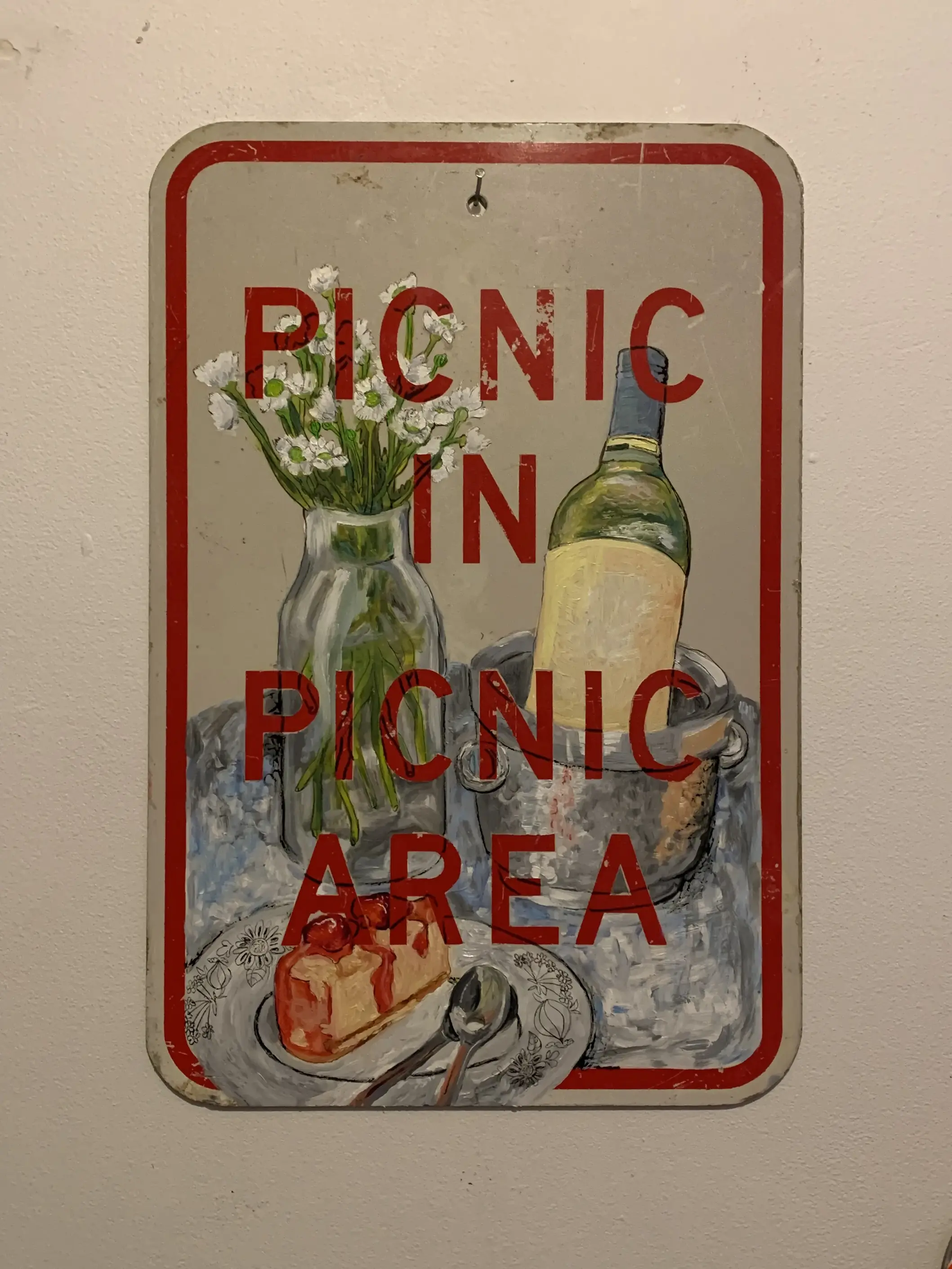
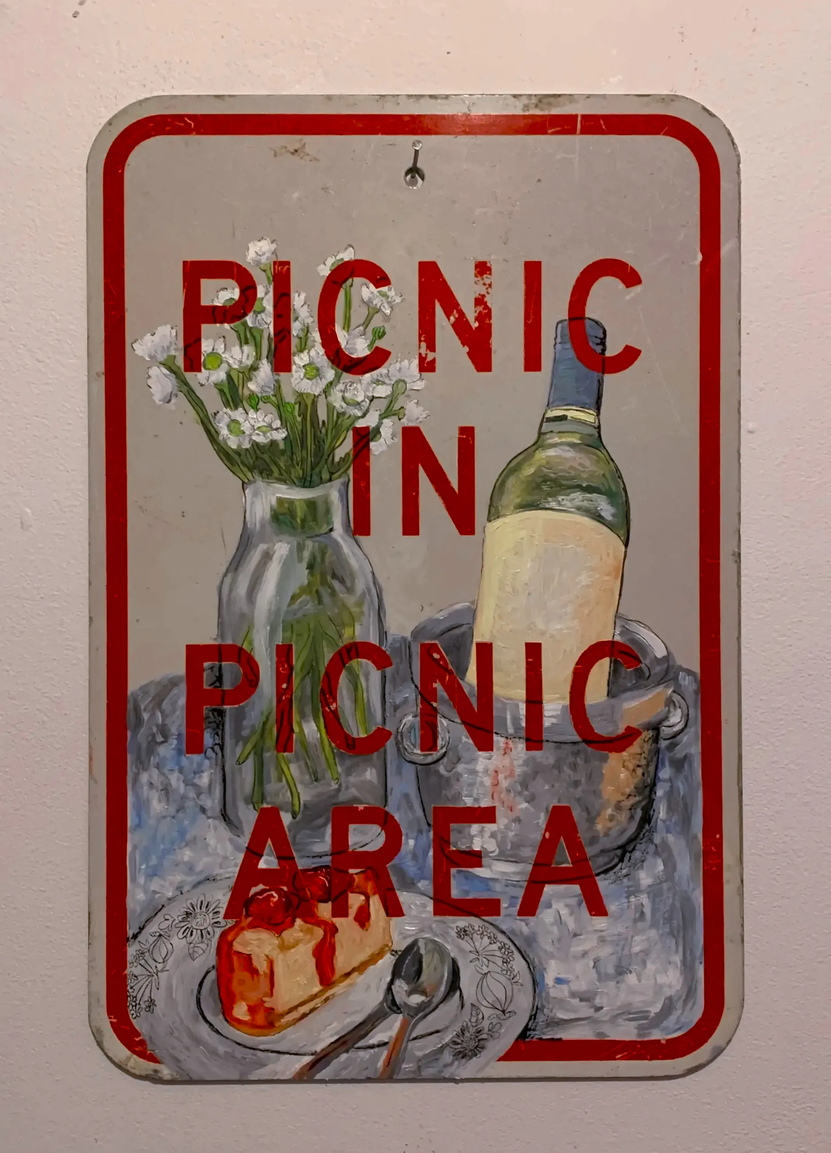
add picnic cut pics and go to gallery button

diff --git a/src/views/WorkView.vue b/src/views/WorkView.vue
@@ -8,6 +8,7 @@ import type { Work } from "@/works";
 import { gallery } from "@/views/gallery";
 import { useRoute } from "vue-router";
 import { onBeforeMount, onBeforeUnmount, ref } from "vue";
+import ButtonComponent from "../components/buttons/ButtonComponent.vue";
 
 const selectedWork: Work = gallery
   .map((s) => s.works)
@@ -57,6 +58,12 @@ onBeforeUnmount(() => document.removeEventListener("keydown", keydown_dismiss));
       </div>
 
       <ImageRowComponent ref="images" :images="selectedWork.images" />
+
+      <div class="container-footer">
+        <RouterLink to="/gallery">
+          <ButtonComponent>Go to Gallery</ButtonComponent>
+        </RouterLink>
+      </div>
     </div>
     <ScrollButtonComponent @click="scrollToImages" />
   </div>
@@ -116,6 +123,12 @@ $title: clamp(10px, 10vw, 40px);
             sans-serif;
           font-size: 16px;
         }
+      }
+
+      &-footer {
+        display: flex;
+        justify-content: center;
+        margin: 40px;
       }
     }
   }

diff --git a/src/works.ts b/src/works.ts
@@ -330,13 +330,13 @@ export namespace Works {
   export const PicnicHere: Work = {
     name: "Picnic Here",
     slug: "picnic-here",
-    cover: "/picnic_here/cover.webp",
-    galleryCover: "/picnic_here/low/cover.webp",
     medium: "Oil paint on street sign",
     dimensions: "12x18in.",
     year: 2022,
+    cover: "/picnic_here/cover.webp",
+    galleryCover: "/picnic_here/low/cover.webp",
     images: [
-      "/picnic_here/IMG_5546.webp",
+      "/picnic_here/flash.webp",
       "/picnic_here/IMG_5547.webp",
       "/picnic_here/IMG_5548.webp",
       "/picnic_here/IMG_5549.webp",
@@ -439,5 +439,10 @@ export namespace Pop {
     cutout: "/twilight_zone/low/cut.webp",
     flash_cutout: "/twilight_zone/low/cut.webp",
     work: Works.TwilightZone,
+  };
+  export const PicnicHere: PopSign = {
+    cutout: "/picnic_here/low/cut.webp",
+    flash_cutout: "/picnic_here/low/flash.webp",
+    work: Works.PicnicHere,
   };
 }

diff --git a/src/views/home-signs.ts b/src/views/home-signs.ts
@@ -11,6 +11,7 @@ export const grid = [
     // 2nd row
     Pop.SiTianWang,
     Pop.StopHorny,
+    Pop.PicnicHere,
     Pop.TwilightZone,
   ],
   [
@@ -24,7 +25,7 @@ export const grid = [
     // 4th row
     Pop.TwilightZone,
     Pop.FallenAngel,
-    Pop.StopHorny,
+    Pop.PicnicHere,
   ],
   [
     // 5th row
